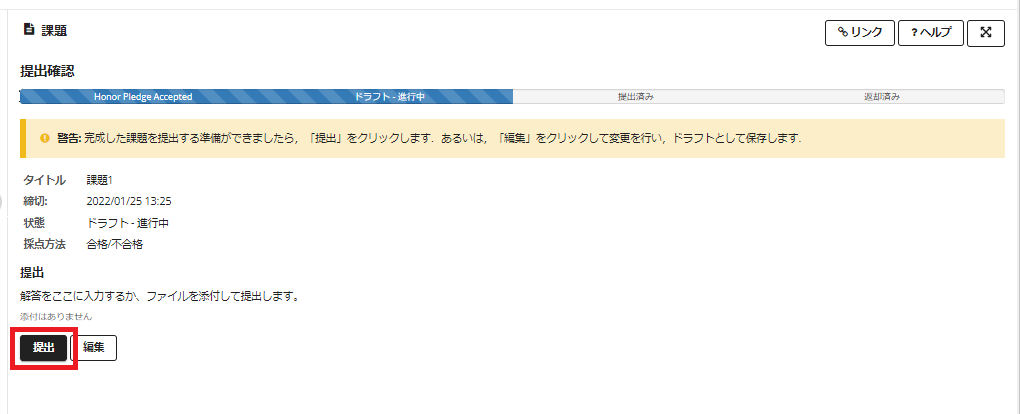
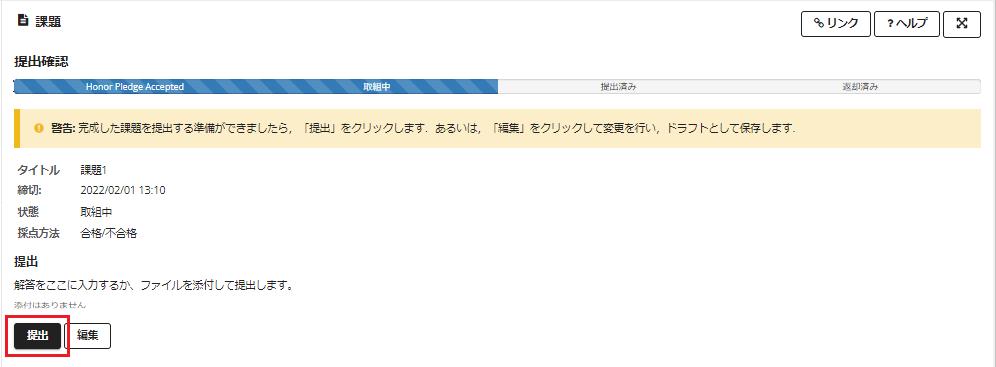
課題提出に関する注意を追記＋画像差し替え

Changed region(s): [[0.0, 0.1499, 0.996, 0.9891], [0.8092, 0.03, 0.996, 0.1199], [0.0, 0.03, 0.0622, 0.0899]]

diff --git a/templates/assignment_submisson_process.htm b/templates/assignment_submisson_process.htm
@@ -81,7 +81,7 @@
                             </p>
                             <ul>
                                 <li>課題のタイトル</li>
-                                <li>ステータス（未開始、課題提出が必要、返却、提出日時など）</li>
+                                <li>ステータス（未開始、課題提出が必要、返却済み、提出日時など）</li>
                                 <li>学生が課題を利用できるようになる公開日</li>
                                 <li>提出期限</li>
                             </ul>
@@ -141,8 +141,11 @@
                         </div>
                         <div class="instructions">
                             <p>
-                                課題を提出すると、画面上に確認メッセージが表示されます。<br>
-                                <strong style="color:red">必ず提出IDが発行されていることを確認してください。IDが発行されていることが課題を提出した証明になります。</div></strong>
+                                課題を提出すると、画面上に確認メッセージが表示されます。<strong style="color:red">必ず<br><br>
+                                1．提出IDが発行されていること<br>
+                                2．課題一覧画面で「提出済みYYYY/MM/DD/ HH:MM」となっていること<br><br>
+                                を確認してください。IDが発行されていることが課題を提出した証明になります。提出IDが確認できない場合は、授業担当教員へ相談してください。
+                            　　</div></strong>
                                 また、全学メールアドレスに提出IDが記載された課題提出確認のメールが送信されますので
                                 必ず保存しておいてください。
                             </p>
@@ -158,6 +161,21 @@
                                 課題が返却されると<font color="#ff0000">&#9312;</font>に課題の詳細と成績等が表示されます。<br>
                                 成績(<font color="#0000ff">&#9313;</font>)は点数・合格/不合格・チェックマーク・コメントのいずれかの形でつけられます。<br>
                                 再提出が求められた場合は、同様の手順で再提出を行ってください。
+                            </p>
+                        </div>
+                    </div>
+                    <div class="step step7">
+                        <h4>7.課題提出に関する注意</h4>
+                        <div class="image clearfix">
+                            <img src="../static/images/assignment_sp_step7.png" alt="step7">
+                        </div>
+                        <div class="instructions">
+                            <p>
+                                課題提出画面において、<br><br>
+                                ・「進める」ボタンをクリックし、「提出」ボタンをクリックしていない場合<br>
+                                ・「ドラフトを保存」ボタンのみをクリックした場合<br><br>
+                                は、提出したことにならないので注意してください。なお、再提出や複数回提出の場合に「進める」ボタンや「ドラフトを保存」ボタンを
+                                クリックすると、提出していない状態に戻るため、再度「提出」ボタンをクリックし、提出IDが表示されていることを確認してください。
                             </p>
                         </div>
                     </div>

diff --git a/templates_en/assignment_submisson_process.htm b/templates_en/assignment_submisson_process.htm
@@ -81,7 +81,7 @@
                             </p>
                             <ul>
                                 <li>The title of the assignment</li>
-                                <li>Status（such as "Not Started（未開始）", "Draft - In progress（ドラフト - 進行中）", "Returned（返却されました）", "Submitted（提出日時）"）</li>
+                                <li>Status（such as "Not Started（未開始）", "Draft - In progress（取組中）", "Returned（返却済み）", "Submitted（提出日時）"）</li>
                                 <li>The open date of the assignment</li>
                                 <li>The due date of the assignment</li>
                             </ul>
@@ -140,8 +140,10 @@
                         </div>
                         <div class="instructions">
                             <p>
-                                After you complete submittion, a confirmation message is displayed on the screen.<br>
-                                <strong style="color:red">Make sure a submittion ID is issued. The ID proves your submitting the assingment.</div></strong>
+                                After you complete submittion, a confirmation message is displayed on the screen.<strong style="color:red"> Please confirm the following:<br><br>
+                                1. Submission ID is displayed<br>
+                                2. Status is "Submitted - YYYY/MM/DD HH:MM（提出済みYYYY/MM/DD HH:MM）<br><br>
+                                The ID proves your submitting the assingment. If you cannot confirm any Submission ID, please contact your instructor of class for consultation.</div></strong>
                                 Also, an email with the id will sended to your all-university mail, so please save it.
                             </p>
                         </div>
@@ -156,6 +158,21 @@
                                 After the assignment is returned, the details and grades for the assignment is displayed in <font color="#ff0000">&#9312;</font>.<br>
                                 Assignments are graded with either points, letter grade, pass/fail（合格/不合格） or checkmark.(<font color="#0000ff">&#9313;</font>)<br>
                                 If you are requested to resubmit, submit the assignment again as the first time.
+                            </p>
+                        </div>
+                    </div>
+                    <div class="step step7">
+                        <h4>7.Attention on Assignment Submission</h4>
+                        <div class="image clearfix">
+                            <img src="../static/images/assignment_sp_step7.png" alt="step7">
+                        </div>
+                        <div class="instructions">
+                            <p>
+                                Please be careful that the following cases are NOT treated as "Submitted":<br><br>
+                                1. Click on "Proceed（進める）" button and not click on "Submit（提出）" button in the submission screen.<br>
+                                2. Click on "Save as draft（ドラフトを保存）" button only.<br><br>
+                                When you re-submit your work more than once, the submissn status will be turned to "No submission" by clicking "Proceed" and/or 
+                                "Save as draft" buttons. So, please confirm that Submission ID is displayed by clicking on "Submit" button again.
                             </p>
                         </div>
                     </div>

diff --git a/templates/assignment_list.htm b/templates/assignment_list.htm
@@ -65,13 +65,13 @@
                             <p>各項目をクリックすることで並べ替えが可能です。</p>
                             <ol>
                                 <li>課題のタイトル</li>
-                                <li>ステータス（未開始、課題提出が必要、返却、提出日時など）</li>
+                                <li>ステータス（未開始、課題提出が必要、返却済み、提出日時など）</li>
                                 <li>学生が課題を利用できるようになる公開日</li>
                                 <li>提出期限</li>
                             </ol>
-                            ステータスには課題が未提出の場合「開始されていません」、提出済みの場合は提出日時が表示されます。<br>
-                            また返却された課題は「返却されました」と表示されます。期限切れの課題も「開始されていません」と表示されますが、新たに提出することはできません。<br>
-                            また、進行中の課題(未提出で閲覧済みの課題)には「ドラフト-進行中」と表示されます。
+                            ステータスには課題が未提出の場合「未開始」、提出済みの場合は提出日時が表示されます。<br>
+                            また返却された課題は「返却済み」と表示されます。期限切れの課題も「未開始」と表示されますが、新たに提出することはできません。<br>
+                            また、取組中の課題(未提出で閲覧済みの課題)には「取組中」と表示されます。
                             </p>
                         </div>
                     </div>

diff --git a/templates_en/assignment_list.htm b/templates_en/assignment_list.htm
@@ -65,13 +65,13 @@
                             <p>Click each item to sort the list.</p>
                             <ol>
                                 <li>The title of the assignment</li>
-                                <li>Status（such as "Not Started（未開始） ", "Draft - In progress（ドラフト - 進行中）", "Returned（返却されました）", "Submitted（提出日時）"）</li>
+                                <li>Status（such as "Not Started（未開始） ", "Draft - In progress（取組中）", "Returned（返却済み）", "Submitted（提出日時）"）</li>
                                 <li>The open date of the assignment</li>
                                 <li>The due date of the assignment</li>
                             </ol>
                             The status will be "Not Started（未開始）" if it has not been submitted, "Submitted（提出日時）" if it has been submitted.<br>
-                            Returned assignments are displayed as "Returned（返却されました）". Expired assignments are also displayed as "Not Started（未開始）", however you cannot submit them.<br>
-                            The ongoing assignments (not submitted but opened) are displayed as "Draft - In progress（ドラフト - 進行中）".
+                            Returned assignments are displayed as "Returned（返却済み）". Expired assignments are also displayed as "Not Started（未開始）", however you cannot submit them.<br>
+                            The ongoing assignments (not submitted but opened) are displayed as "Draft - In progress（取組中）".
                             </p>
                         </div>
                     </div>

diff --git a/templates/assignment_details.htm b/templates/assignment_details.htm
@@ -73,7 +73,7 @@
                         </div>
                         <div class="instructions">
                             <p>
-                                閲覧したい課題のタイトルをクリックしてください。状態が「返却されました」となっている課題がフィードバックをもつ課題です。
+                                閲覧したい課題のタイトルをクリックしてください。状態が「返却済み」となっている課題がフィードバックをもつ課題です。
                             </p>
                         </div>
                     </div>

diff --git a/templates_en/assignment_details.htm b/templates_en/assignment_details.htm
@@ -73,7 +73,7 @@
                         </div>
                         <div class="instructions">
                             <p>
-                                Click the title of the assignment you want to check the feedback. The assignments with "Returned（返却されました）" status have feedbacks.
+                                Click the title of the assignment you want to check the feedback. The assignments with "Returned（返却済み）" status have feedbacks.
                             </p>
                         </div>
                     </div>
